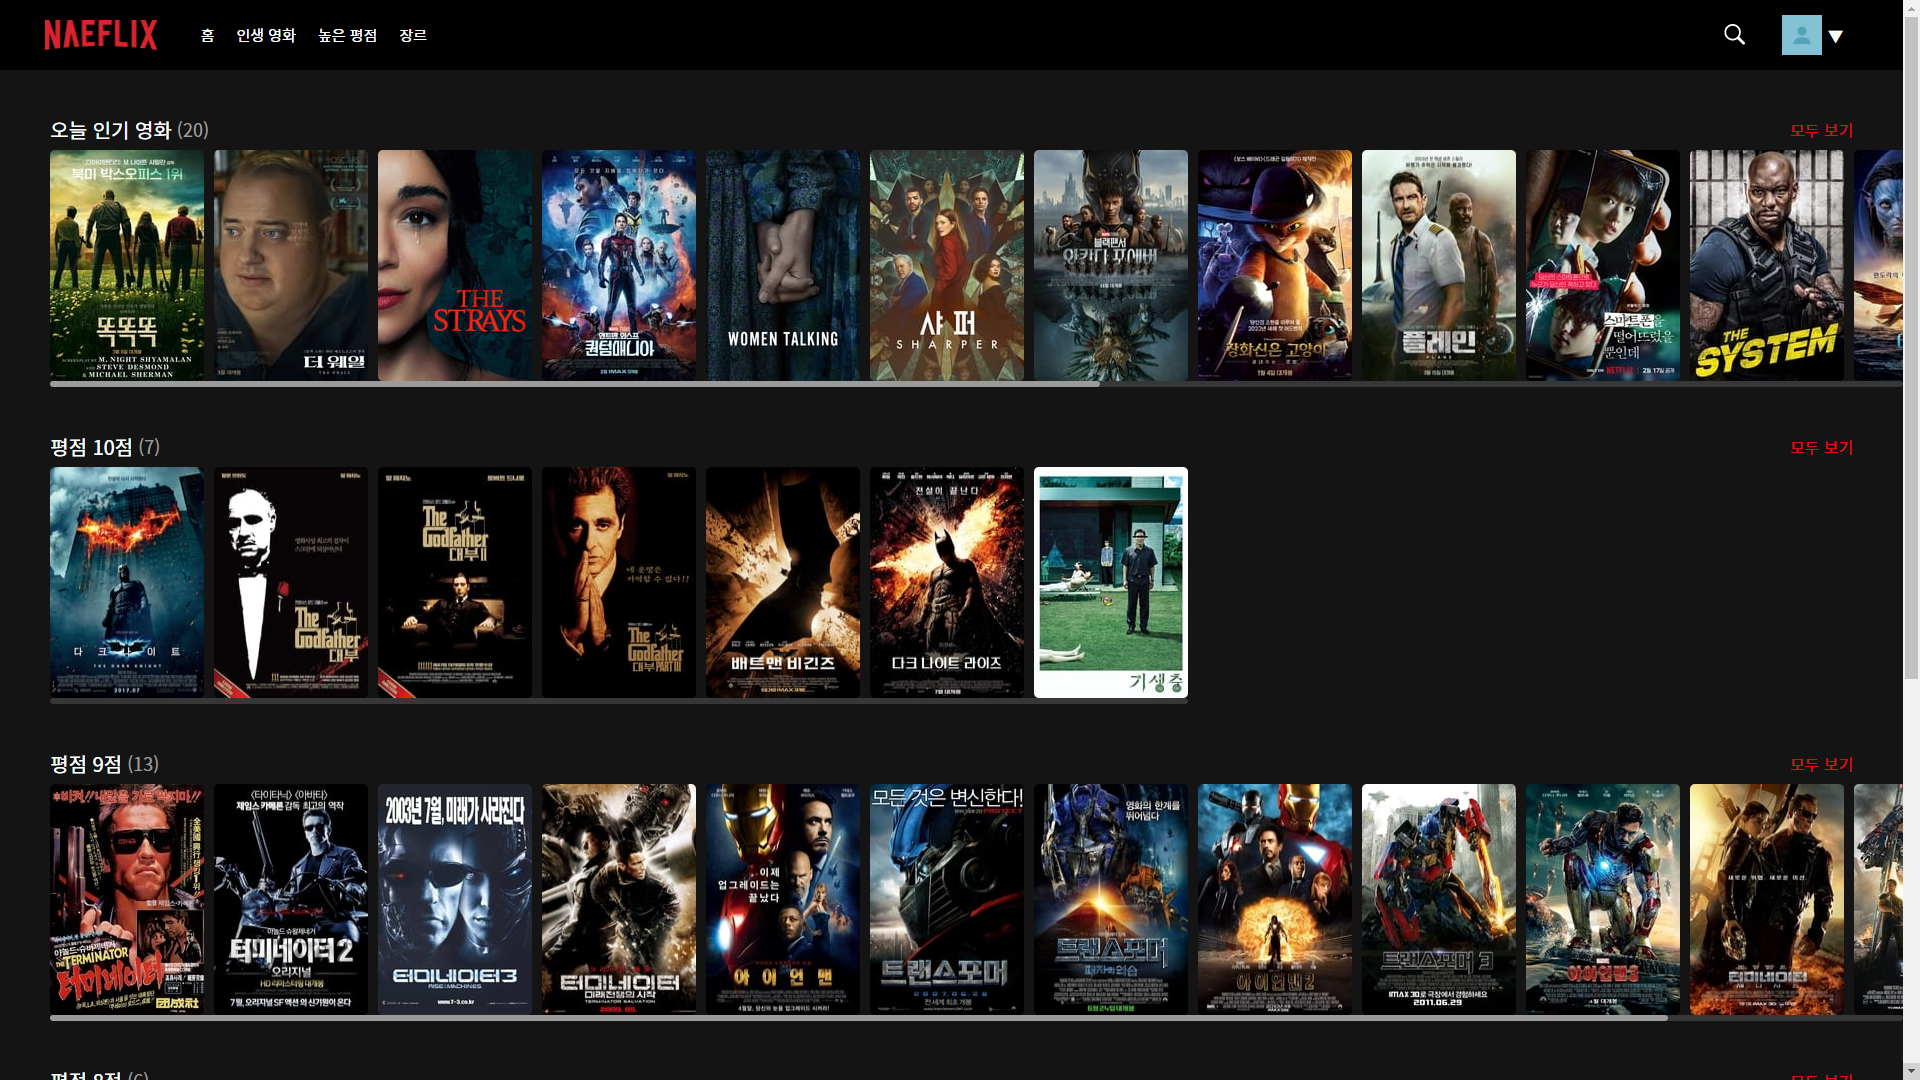
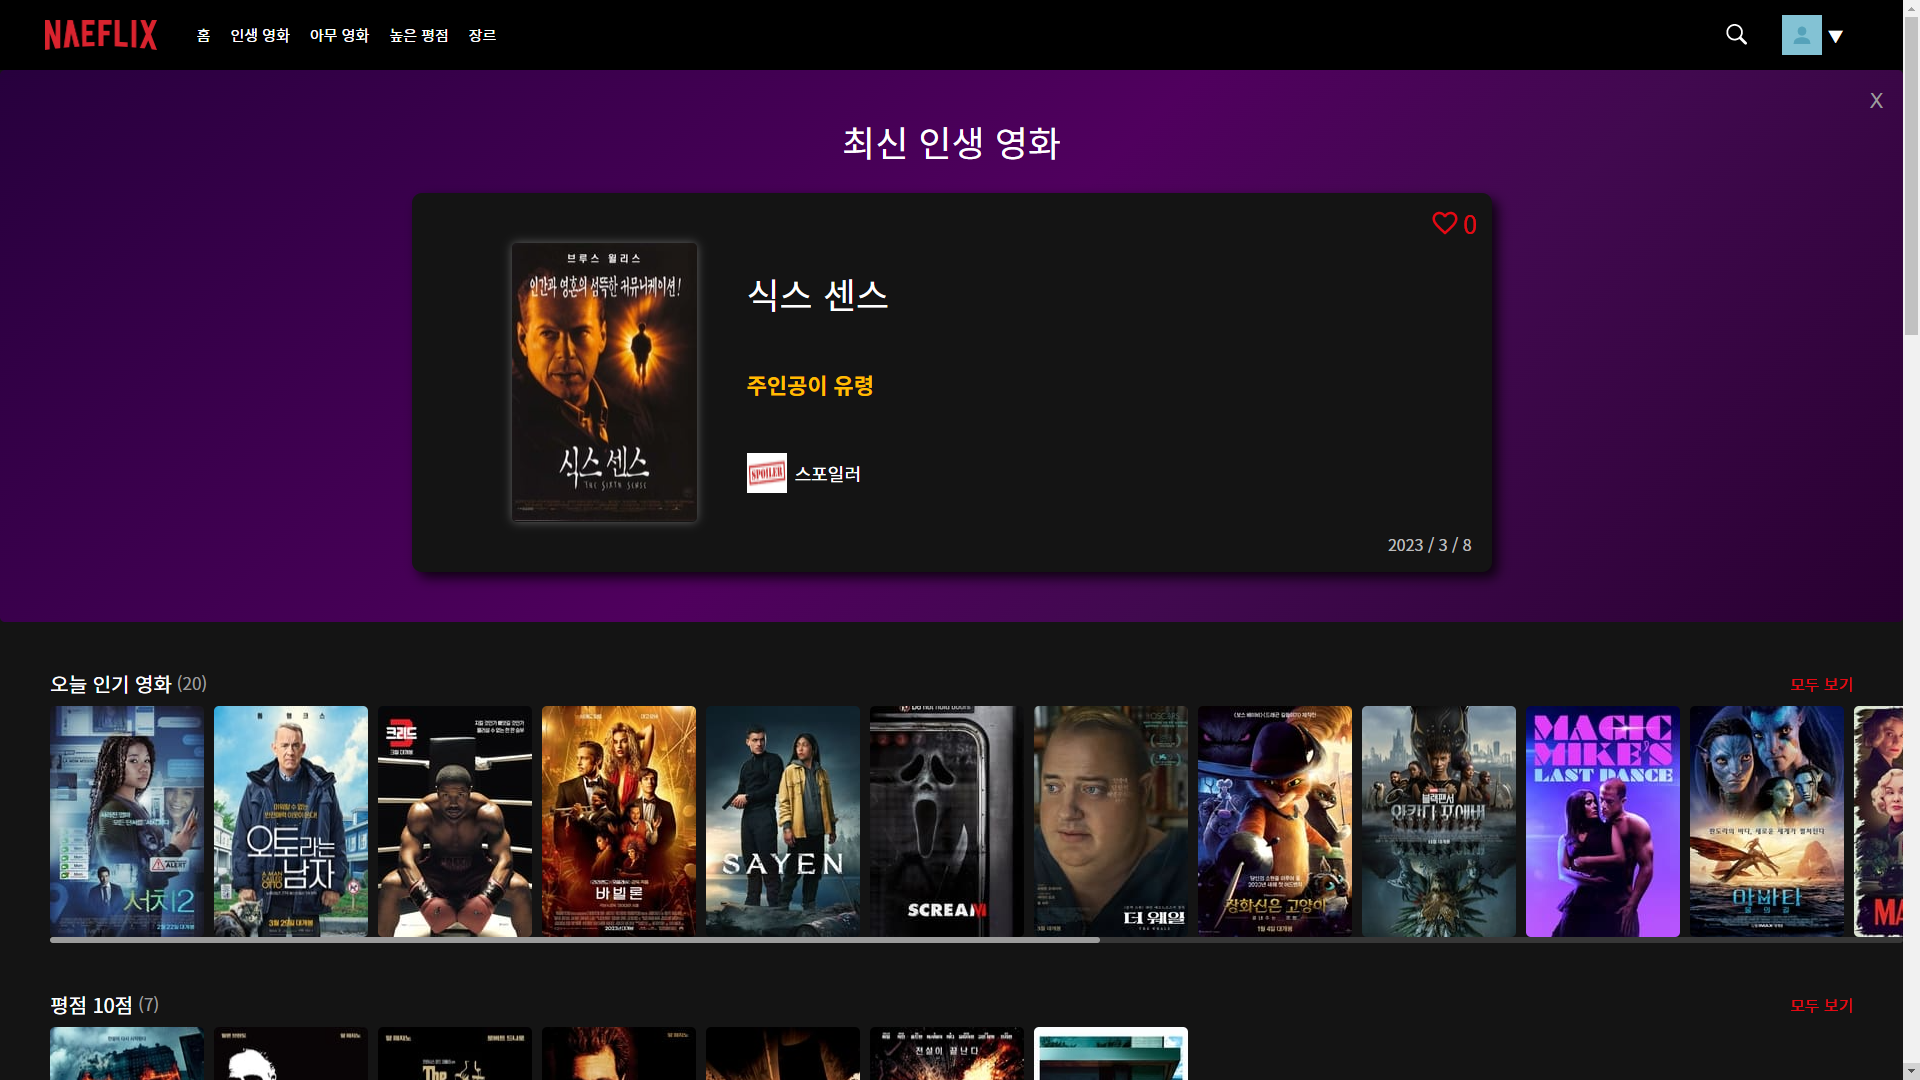
feat: 홈 화면 최신 인생 영화 배너 추가

diff --git a/src/pages/Main/home/Banner.tsx b/src/pages/Main/home/Banner.tsx
@@ -1,0 +1,66 @@
+import { useNavigate } from 'react-router-dom';
+
+import { getBestMovieList } from 'firebases/firestore';
+import { useData } from 'hooks/useData';
+import styled from 'styled-components';
+
+import Post from '../cinema/Post';
+
+const BannerLayout = styled.div`
+  ${({ theme }) => theme.flex.columnCenter};
+  position: relative;
+  background: #27003d;
+  background: -moz-linear-gradient(-45deg, #27003d 0%, #50005e 49%, #41094f 69%, #280030 100%);
+  background: -webkit-linear-gradient(-45deg, #27003d 0%, #50005e 49%, #41094f 69%, #280030 100%);
+  background: linear-gradient(135deg, #27003d 0%, #50005e 49%, #41094f 69%, #280030 100%);
+  filter: progid:DXImageTransform.Microsoft.gradient( startColorstr='#27003d', endColorstr='#280030',GradientType=1 );
+  border-radius: 5px;
+  gap: 30px;
+
+  margin-left: -50px;
+  padding: 50px;
+
+  @media screen and (max-width: 550px) {
+    margin-left: -30px;
+    padding: 30px;
+  }
+
+  > div:last-child {
+    max-width: 1080px;
+    width: 100%;
+  }
+`;
+
+const Title = styled.div`
+  ${({ theme }) => theme.font(36)}
+  cursor: pointer;
+`;
+
+const CloseButton = styled.button`
+  position: absolute;
+  top: 20px;
+  right: 20px;
+  color: rgb(155, 155, 155);
+  font-size: 20px;
+`;
+
+function Banner({ setShownBest }: { setShownBest: React.Dispatch<React.SetStateAction<boolean>> }) {
+  const [bestMovieList] = useData({
+    callback: getBestMovieList,
+    initailValue: null,
+  });
+  const navigate = useNavigate();
+
+  if (bestMovieList)
+    return (
+      <BannerLayout>
+        <CloseButton onClick={() => setShownBest(false)}>X</CloseButton>
+        <Title onClick={() => navigate('cinema')}>최신 인생 영화</Title>
+        <Post {...bestMovieList[0]} />
+      </BannerLayout>
+    );
+
+  return null;
+}
+
+export default Banner;

diff --git a/src/pages/Main/home/Home.tsx b/src/pages/Main/home/Home.tsx
@@ -1,3 +1,4 @@
+import { useState } from 'react';
 import { Outlet } from 'react-router-dom';
 
 import { getHomeList } from 'firebases/firestore';
@@ -9,10 +10,12 @@ import MoviesWithStars from '../MoviesWithStars';
 import TopRatedMovies from '../TopRatedMovies';
 import Trending from '../Trending';
 
-const HomeLayout = styled.div`
+import Banner from './Banner';
+
+const HomeLayout = styled.div<{ isShownBest: boolean }>`
   ${({ theme }) => theme.flex.column};
   ${({ theme }) => theme.style.minHeight};
-  padding: 50px 0 50px 50px;
+  padding: ${({ isShownBest }) => (isShownBest ? '0 0 50px 50px' : '50px 0 50px 50px')};
   gap: 50px;
 
   @media screen and (max-width: 550px) {
@@ -26,6 +29,7 @@ function Home() {
     initailValue: [],
     defaultValue: DATA.HOME_LIST,
   });
+  const [isShownBest, setShownBest] = useState(true);
 
   const Components = {
     'top-rated': <TopRatedMovies direction='horizontal' key='top-rated' />,
@@ -34,7 +38,8 @@ function Home() {
   };
 
   return (
-    <HomeLayout>
+    <HomeLayout isShownBest={isShownBest}>
+      {isShownBest && <Banner setShownBest={setShownBest} />}
       {homeList.map(
         (category) =>
           Components[category] || (

diff --git a/src/pages/Main/cinema/Post.tsx b/src/pages/Main/cinema/Post.tsx
@@ -19,8 +19,9 @@ const PostLayout = styled.div`
   background-color: rgb(20, 20, 20);
   width: 100%;
   border-radius: 10px;
+  box-shadow: 6px 6px 12px rgba(0, 0, 0, 0.8);
 
-  padding: 50px;
+  padding: 50px 100px;
   gap: 50px;
 
   @media screen and (max-width: 950px) {
@@ -33,7 +34,14 @@ const PostLayout = styled.div`
 `;
 
 const ImageWrapper = styled.div`
+  ${({ theme }) => theme.style.transition};
   cursor: pointer;
+  border-radius: 5px;
+  box-shadow: 0 0 10px rgba(155, 155, 155, 0.6);
+
+  &:hover {
+    box-shadow: 0 0 10px rgba(155, 155, 155, 1);
+  }
 `;
 
 const Content = styled.div`

diff --git a/src/pages/introduction/ImageTextBundle.tsx b/src/pages/introduction/ImageTextBundle.tsx
@@ -25,7 +25,7 @@ function ImageTextBundle() {
         회원가입, 로그인 기능이 구현되어 있습니다.
       </ImageTextBox>
       <ImageTextBox title='홈 화면' img={home} direction='reverse'>
-        평점별 영화 목록, 인기 영화 목록 등 다양한 영화 목록을 확인할 수 있습니다.
+        평점별 영화, 인기 영화 등 다양한 영화들의 목록을 확인할 수 있습니다.
         <br />
         <br />
         시청한 영화, 자신의 평점별 영화 목록을 통해 나만의 영화 컬렉션을 만들 수 있습니다.

diff --git a/src/pages/Main/cinema/Cinema.tsx b/src/pages/Main/cinema/Cinema.tsx
@@ -30,12 +30,13 @@ const Title = styled.h1`
 `;
 
 const RegisterButton = styled.button`
-  ${({ theme }) => theme.flex.center}
+  ${({ theme }) => theme.flex.center};
   position: relative;
   background-color: rgb(20, 20, 20);
   width: 100%;
   border-radius: 10px;
   color: white;
+  box-shadow: 6px 6px 12px rgba(0, 0, 0, 0.8);
 
   font-size: 30px;
   height: 100px;

diff --git a/src/pages/Main/any/Any.tsx b/src/pages/Main/any/Any.tsx
@@ -21,13 +21,13 @@ const AnyMovieLayout = styled.div`
 `;
 
 const AnyMovie = styled.div`
+  ${({ theme }) => theme.style.transition};
   border-radius: 10px;
   background-color: white;
   cursor: pointer;
   width: 342px;
   height: 513px;
   max-width: 100vw;
-  transition: all 0.3s ease-in-out;
   box-shadow: 0 0 50px rgba(0, 0, 0, 0.8);
 
   &:hover {

diff --git a/src/pages/Main/best/Best.tsx b/src/pages/Main/best/Best.tsx
@@ -16,13 +16,13 @@ const NoBestLayout = styled.div`
 `;
 
 const NoBest = styled.div`
+  ${({ theme }) => theme.style.transition};
   border-radius: 10px;
   background-color: white;
   cursor: pointer;
   width: 342px;
   height: 513px;
   max-width: 100vw;
-  transition: all 0.3s ease-in-out;
   box-shadow: 0 0 50px rgba(0, 0, 0, 0.8);
 
   &:hover {

diff --git a/src/styles/theme.ts b/src/styles/theme.ts
@@ -46,6 +46,8 @@ const style = {
     min-height: calc(100vh - 60px);
   }
   `,
+  transition: `
+  transition: all 0.3s ease-in-out;`,
 };
 
 const theme = {
